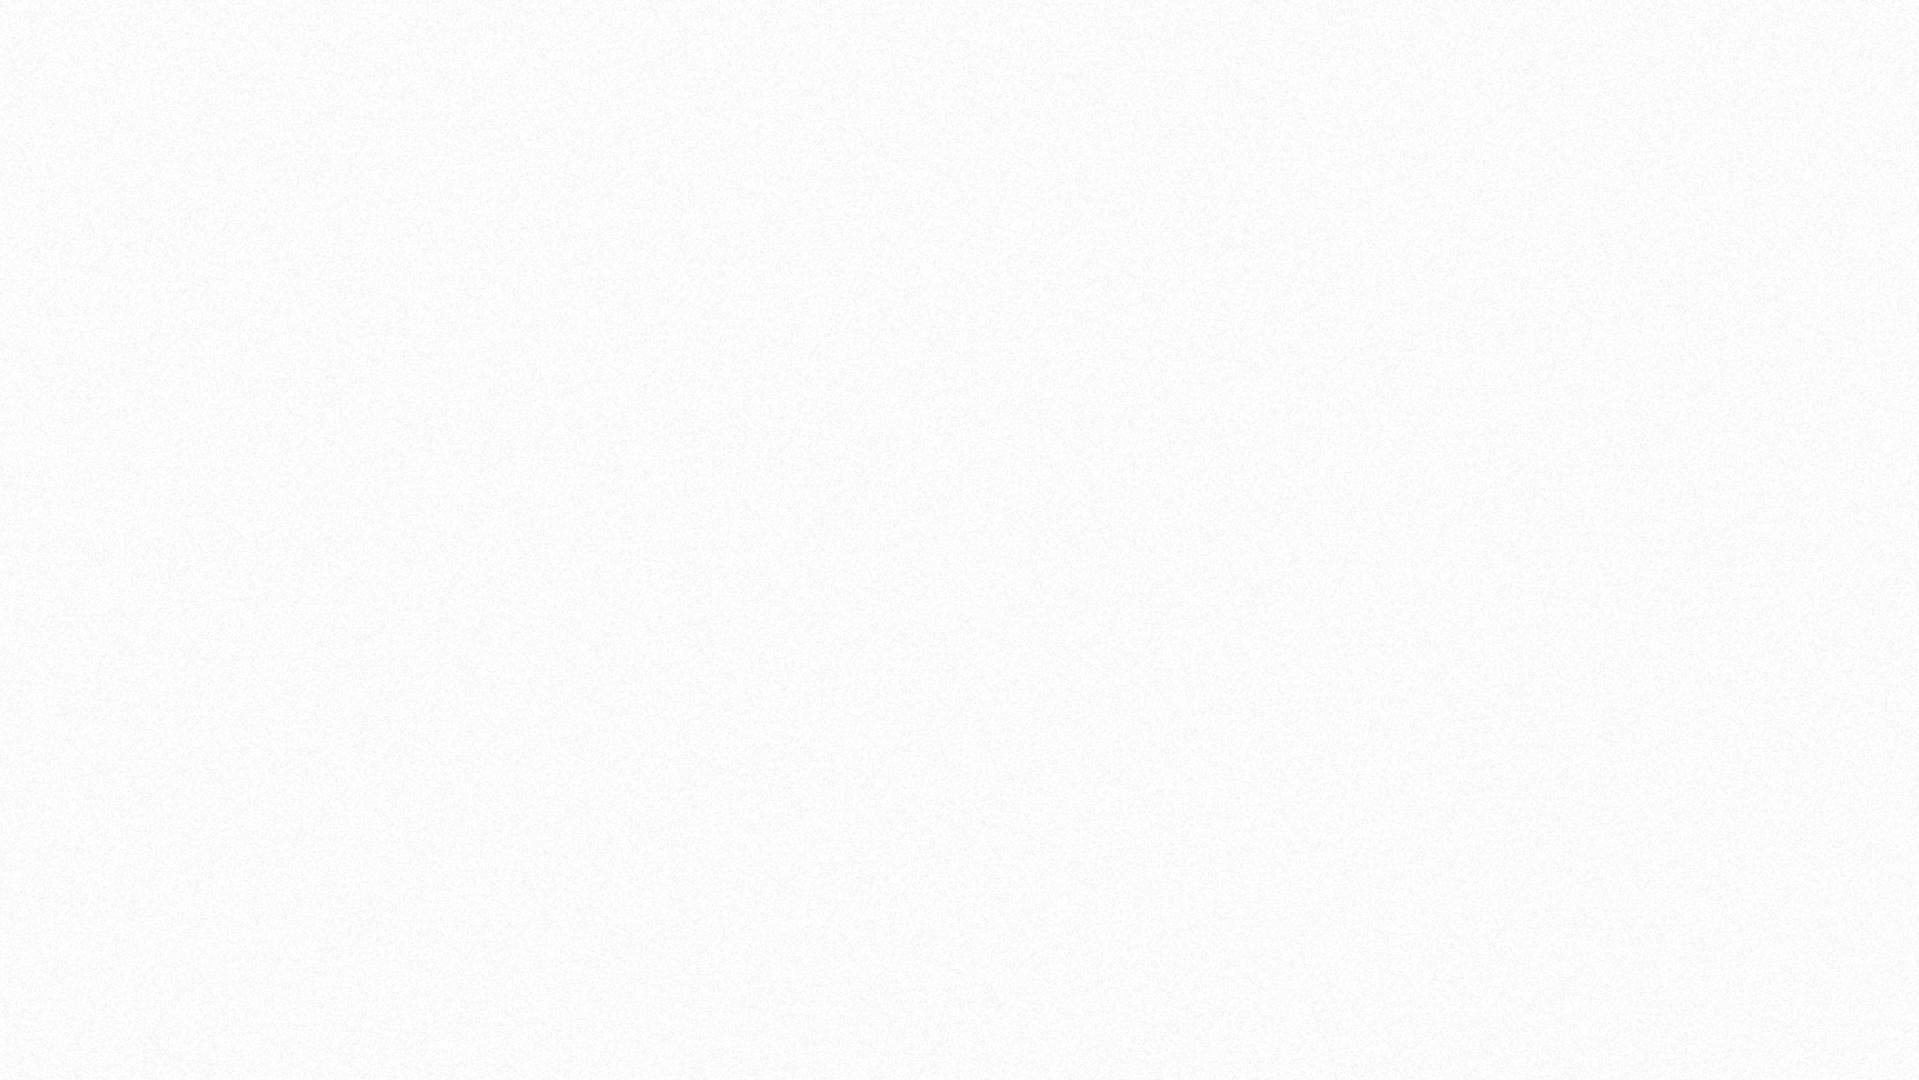
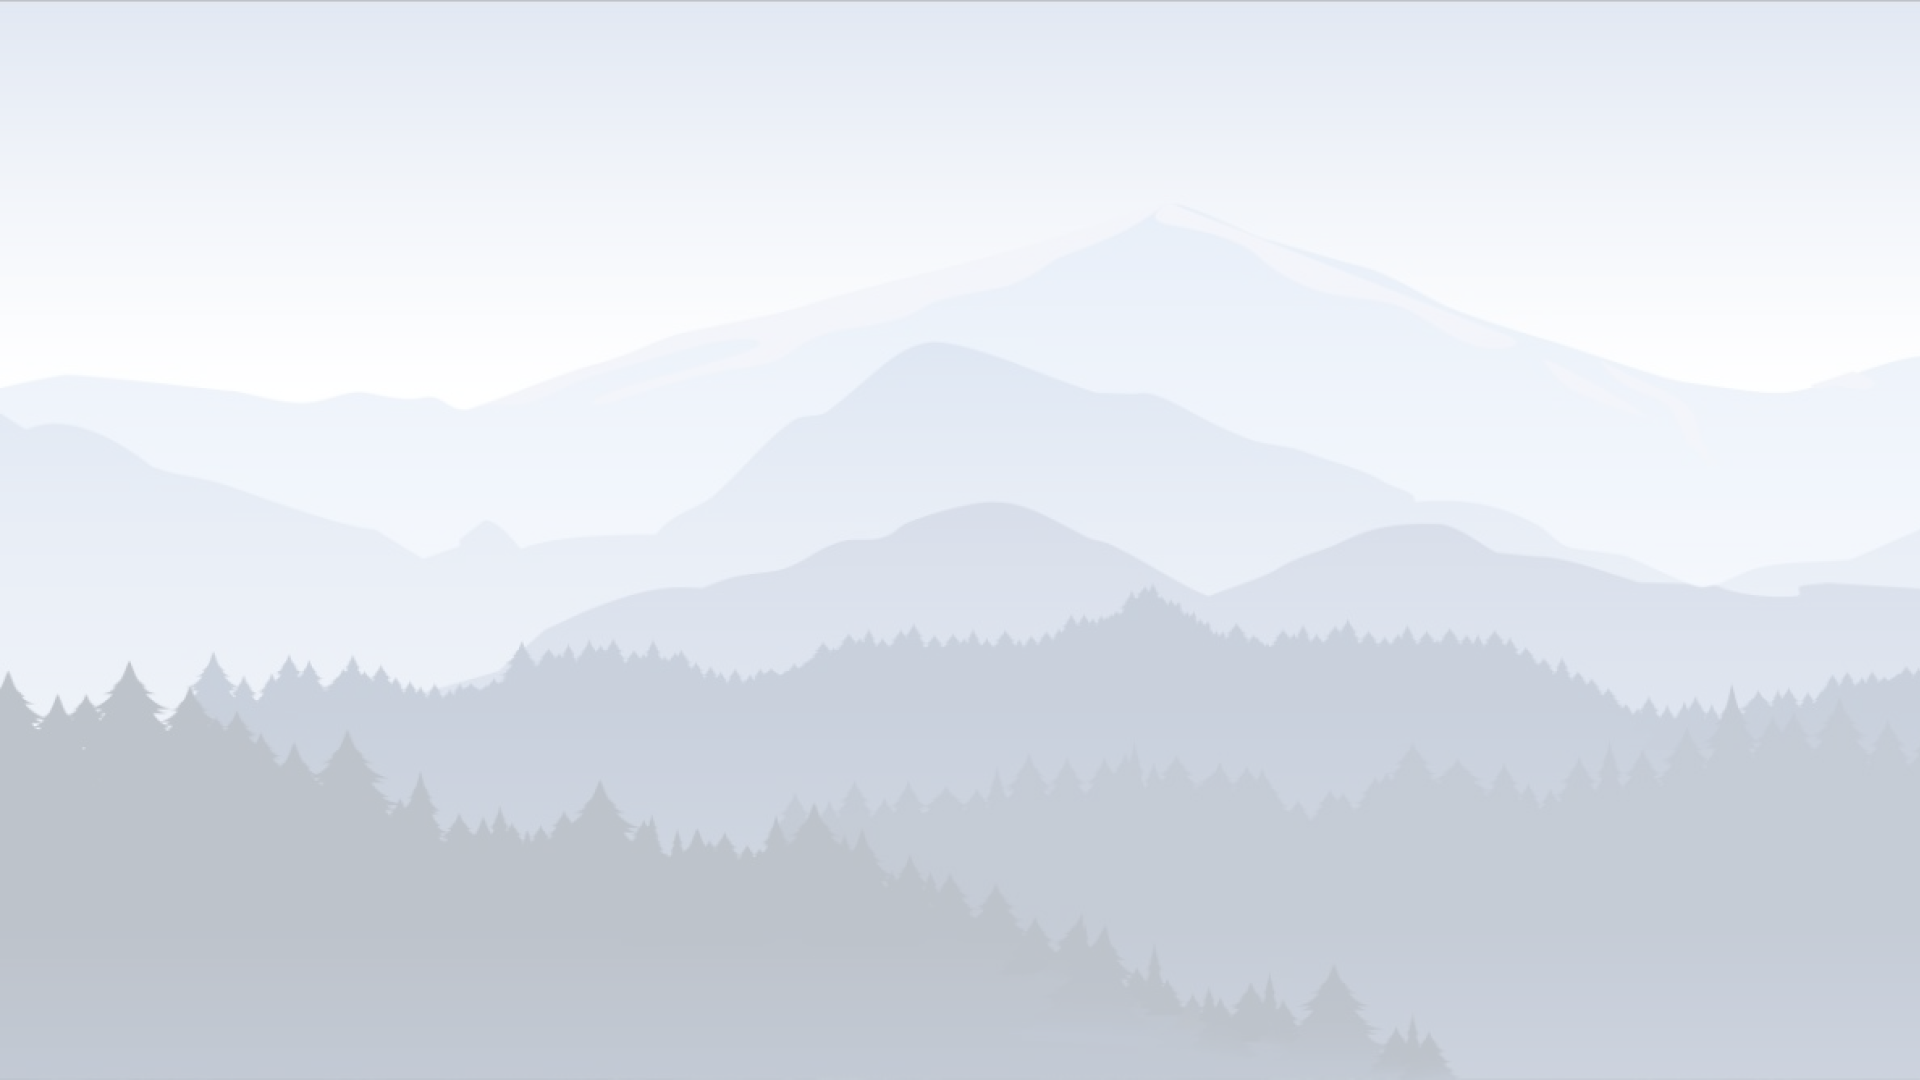
add parallax bg
Please enter the commit message for your changes. Lines starting

diff --git a/theme/classic/scss/custom.scss b/theme/classic/scss/custom.scss
@@ -3,6 +3,8 @@ $custom-theme-color-1: #C3E4AF;
 $custom-theme-color-2: #F8FFF3;
 $custom-theme-color-3: #4E9A5F;
 $custom-theme-color-4: #C0C7BA;
+// Background image settings-->
+$custom-theme-bimage: url("/theme/classic/pix/background/background_1.png");
 // Subcolors -->
 $custom-theme-subcolor-1: #C3E4AF;
 $custom-theme-subcolor-2: #A3D97D;
@@ -94,11 +96,18 @@ $navbar-item-size: 40px;
 $custom-drop-shadow: none;
 //$custom-drop-shadow: drop-shadow(0px 4px 4px rgba(0, 0, 0, 0.5));
 $custom-image-shadow: drop-shadow(-7px 4px 1px rgba(0, 0, 0, 0.25));
-$font-rubik: Rubik,
-  sans-serif;
+$font-rubik: 'Choco Cooky', 'Rubik', sans-serif;
+$font-poppins: 'Choco Cooky', 'Poppins', sans-serif;
 
 $shadow-bg-color: rgba(0, 0, 0, .5);
 $shadow-zIndex: 1040;
+
+@font-face {
+  font-family: "Choco Cooky";
+  src: url("/theme/classic/ChocoCooky.ttf") format("truetype");
+  font-style: normal;
+  font-weight: normal;
+}
 
 /*Buttons and selects*/
 button.btn.btn-secondary,
@@ -295,7 +304,7 @@ div.path-calendar {
 
       th.header {
         color: $maincalendar-main-text-color;
-        font-family: "Poppins", sans-serif !important;
+        font-family: $font-poppins !important;
         padding: 15px;
         border: none;
       }
@@ -1274,7 +1283,7 @@ section.block_calendar_month {
 //student header styles end
 .online-class {
   color: #353535;
-  font-family: 'Rubik', sans-serif;
+  font-family: $font-rubik;
 
   width: 100%;
   display: -webkit-flex;
@@ -1568,11 +1577,21 @@ section.block_calendar_month {
 
 }
 
+:root{
+  --moveBg: 0; 
+}
+
 body {
-  font-family: 'Rubik', sans-serif !important;
+  font-family: $font-rubik !important;
   line-height: 1.2 !important;
   color: $custom-main-text-color;
-  background-color: $custom-main-bg-color  !important;
+  // background-color: $custom-main-bg-color  !important;
+  background: $custom-theme-bimage !important;
+  background-position-y: var(--moveBg)!important;
+  transition: ease-in-out 1s !important;
+  background-repeat: no-repeat !important;
+  background-attachment: fixed !important;
+  position: relative !important;
 }
 
 footer {
@@ -2989,5 +3008,13 @@ body {
 
   img {
     margin: 5px 7px 5px 5px;
+  }
+}
+
+.userselector {
+  select {
+    height: 400px !important;
+
+    white-space: normal;
   }
 }

diff --git a/theme/classic/javascript/parallax.js b/theme/classic/javascript/parallax.js
@@ -1,0 +1,22 @@
+var windowHeight = window.innerHeight;
+var minPos = -500 *( windowHeight  / 996);
+let mainContentHeight = document.querySelector('body').offsetHeight - windowHeight;
+var bg = document.querySelector('body');
+mainContentHeight = document.querySelector('#page-content').offsetHeight - windowHeight;
+value = minPos*  (window.pageYOffset / mainContentHeight * 100)/100;
+if(document.scrollHeight == document.offsetHeight) value = minPos;
+document.documentElement.style.setProperty(`--moveBg`, `${value }px`);
+function moveBg(e){
+     mainContentHeight = document.querySelector('#page-content').offsetHeight - windowHeight;
+      coeff =  (window.pageYOffset / mainContentHeight * 100)/100
+      if (coeff > 1){coeff = 1}
+      value = minPos*  (window.pageYOffset / mainContentHeight * 100)/100;
+     if (value < minPos){ value = minPos;}
+     document.documentElement.style.setProperty(`--moveBg`, `${value}px`);
+     console.log(value);
+}
+window.addEventListener('scroll' , moveBg);
+window.scrollBy({
+            top: offsetPosition,
+            behavior: 'smooth'
+        });

diff --git a/startpage/static/style/startpage.css b/startpage/static/style/startpage.css
@@ -18,7 +18,7 @@
 body {
   width: 100vw;
   overflow-x: hidden;
-  background: white;
+  /* background: white; */
 }
 
 .shadow {
@@ -526,7 +526,7 @@ div.footer-fragment div.background-and-card-wrapper div.demo-card-wrapper button
 }
 
 body {
-  /*background: url(./assets/background-1.png);*/
+  background: url(./assets/background-1.png);
 }
 .section {
   scroll-behavior: smooth;

diff --git a/theme/classic/config.php b/theme/classic/config.php
@@ -28,7 +28,7 @@ defined('MOODLE_INTERNAL') || die();
 $THEME->name = 'classic';
 global $CFG, $PAGE, $USER;
 $PAGE->requires->jquery();
-$THEME->javascripts_footer = array("leftcolumntoggle");
+$THEME->javascripts_footer = array_merge(array("leftcolumntoggle"), array("parallax"));
 
 //$THEME->sheets = [];
 $THEME->sheets = array('tmp');
